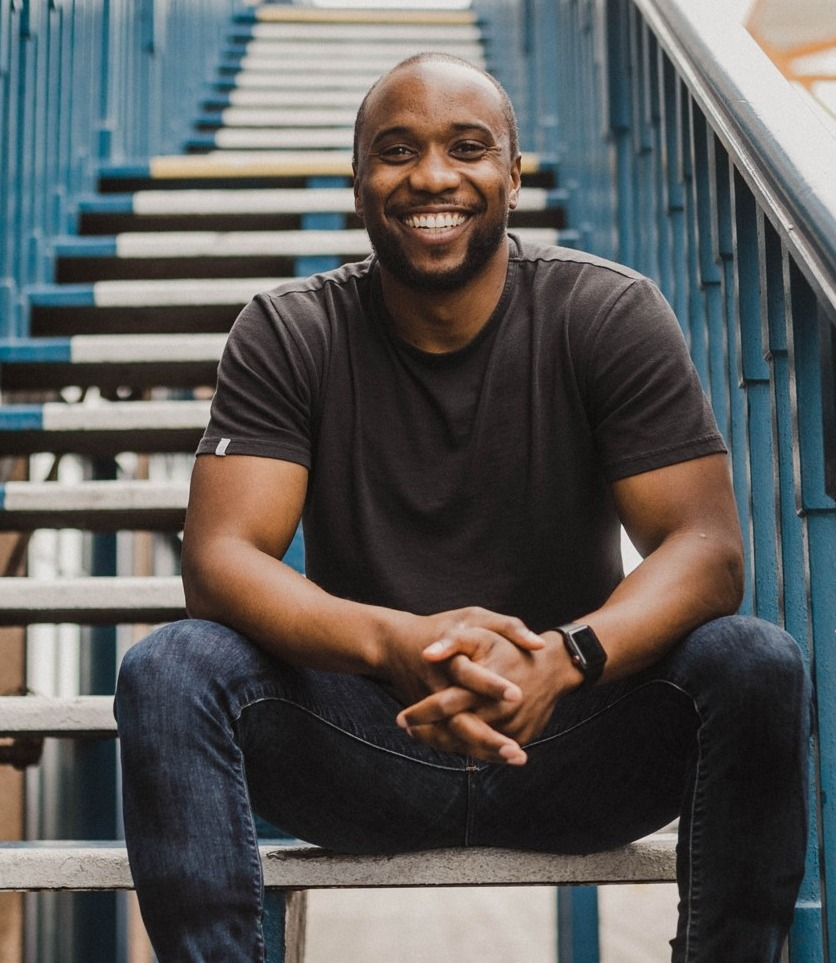
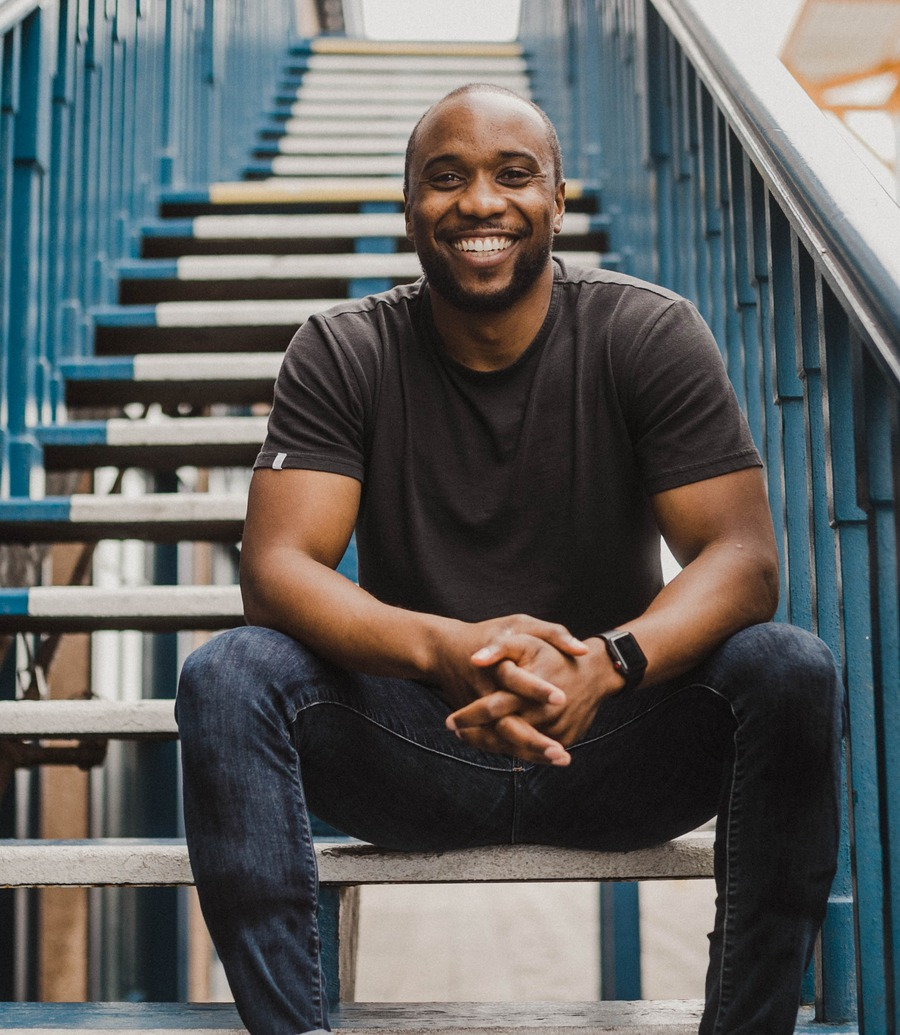
v1.10: About photo re-cut from original (subject truly centered); CTA heading in plain language

diff --git a/index.html b/index.html
@@ -331,7 +331,7 @@
 <section class="pad" id="contact">
   <div class="wrap">
     <div class="cta-band">
-      <h2>Want to see your business's "after"?</h2>
+      <h2>See your new site before you spend a dollar.</h2>
       <p>Email me what you do and where you are. I'll send back a free mockup of your new site — no meetings, no pressure, yours to keep either way.</p>
       <a class="btn" href="mailto:[email redacted]?subject=Free%20mockup%20request&body=Hi%20Isaiah%20—%20my%20business%20is%20...">[email redacted]</a>
     </div>